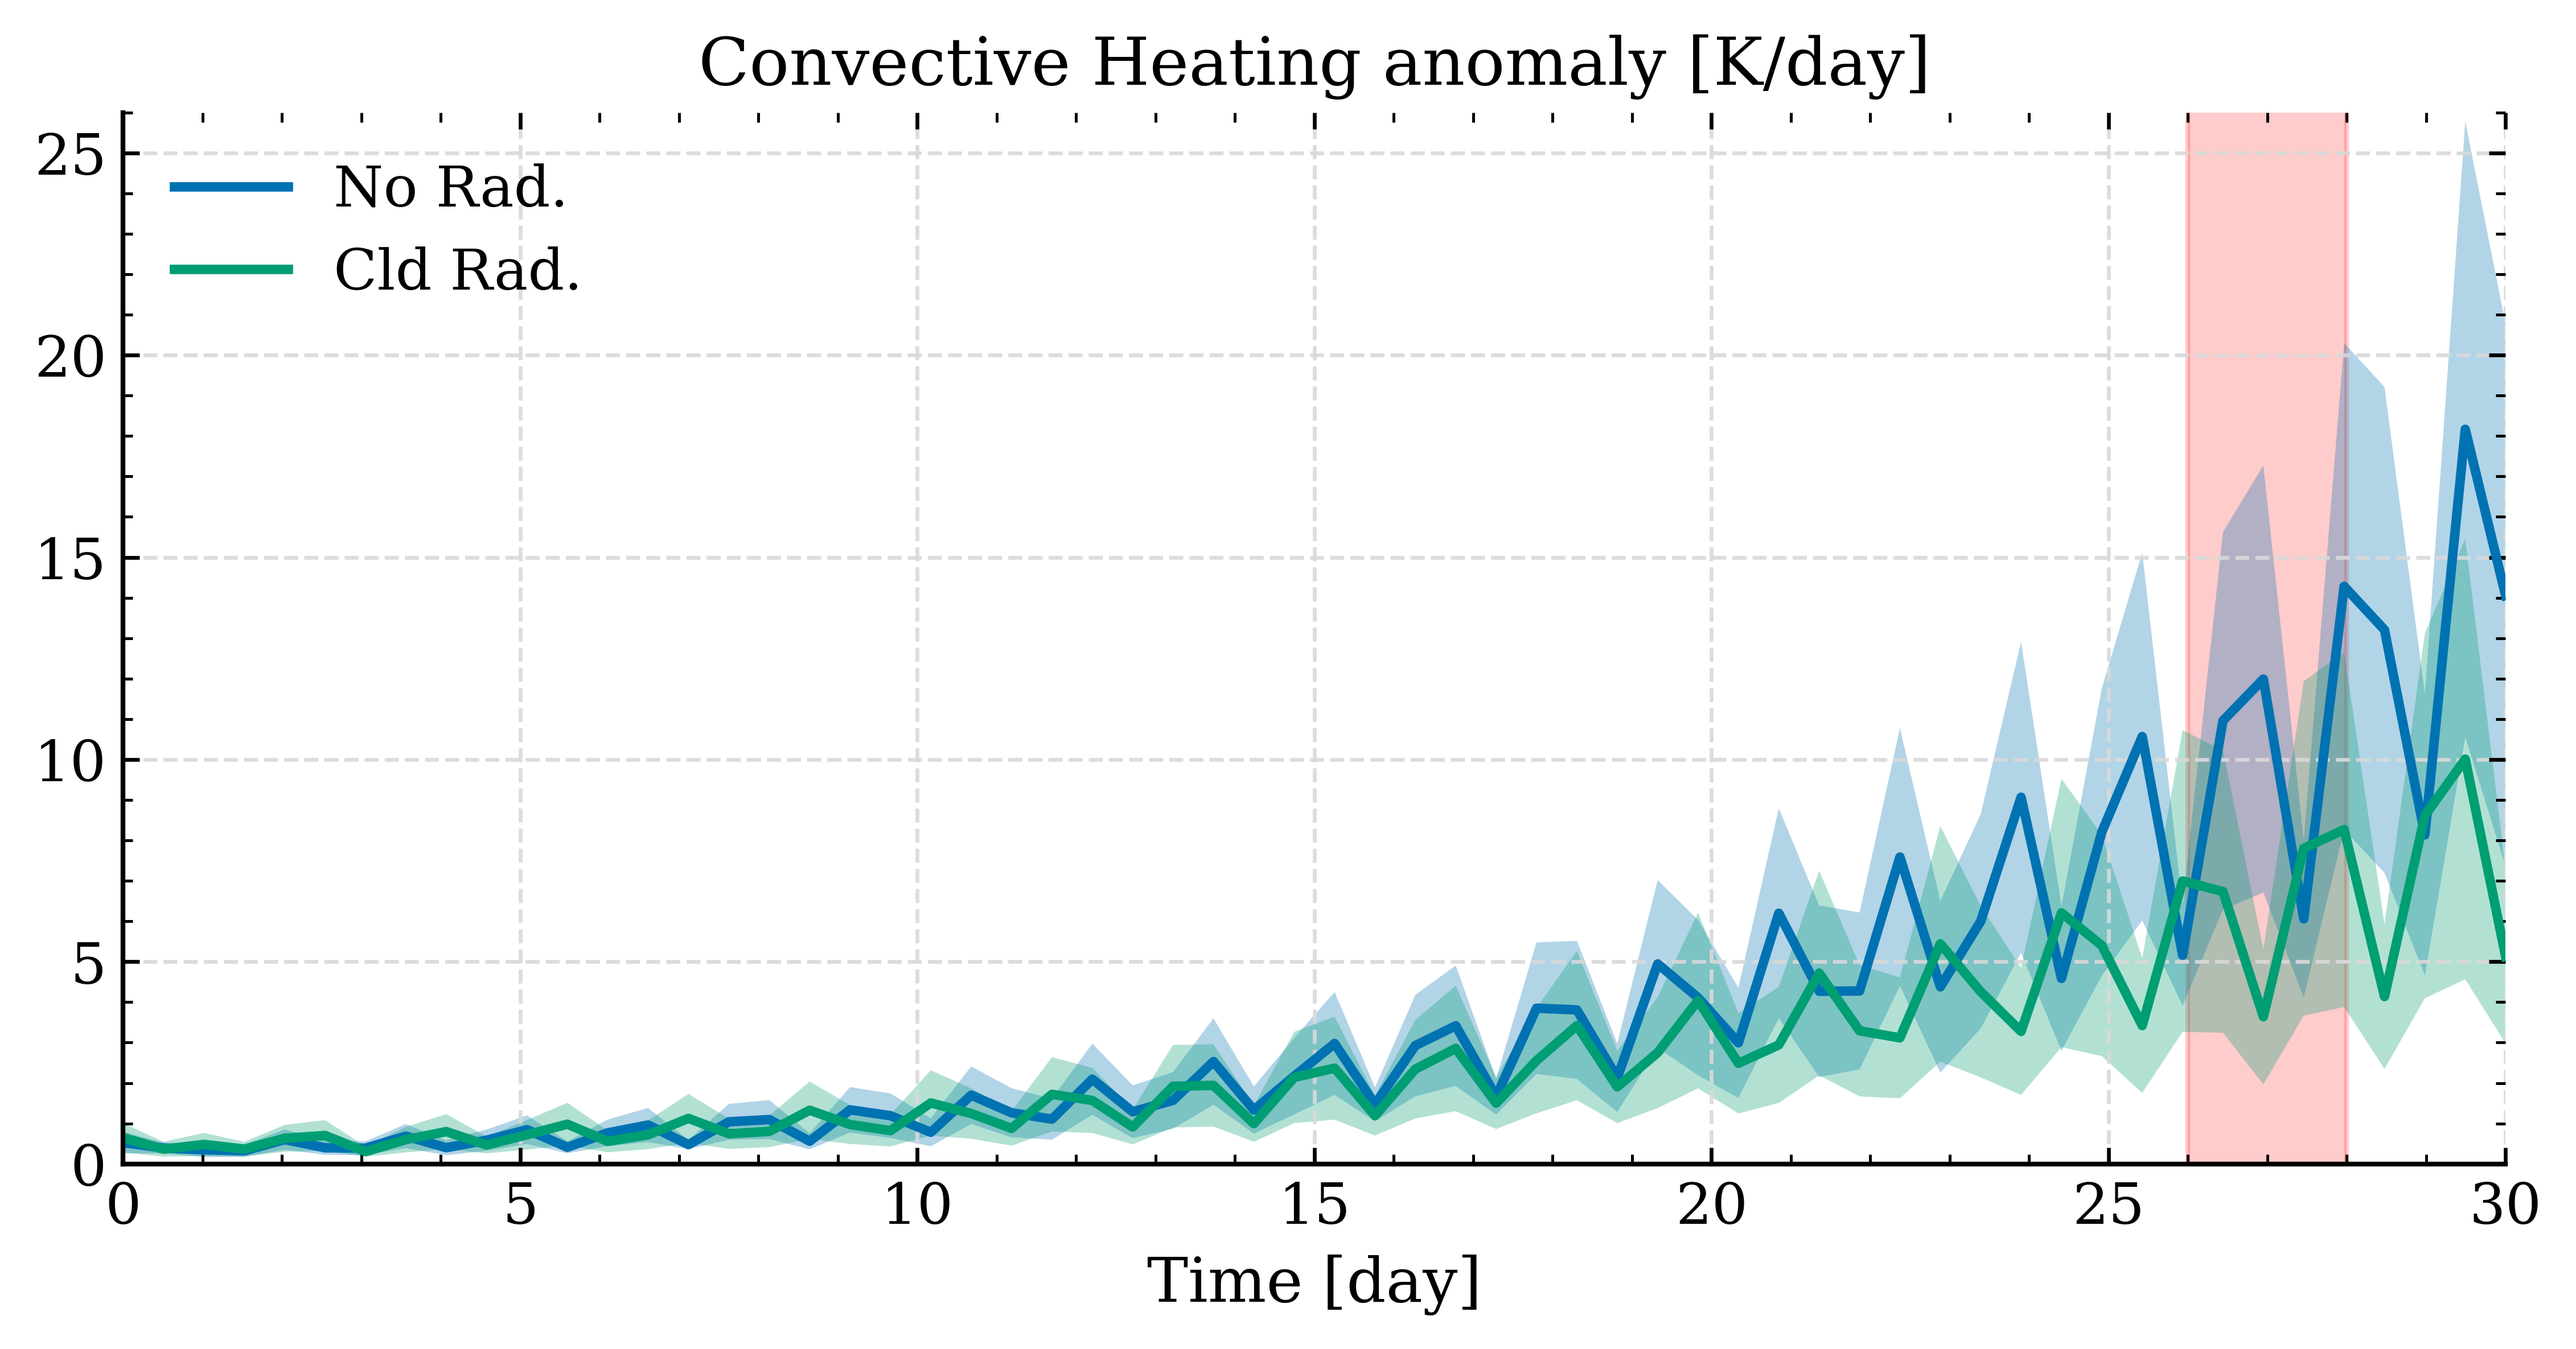
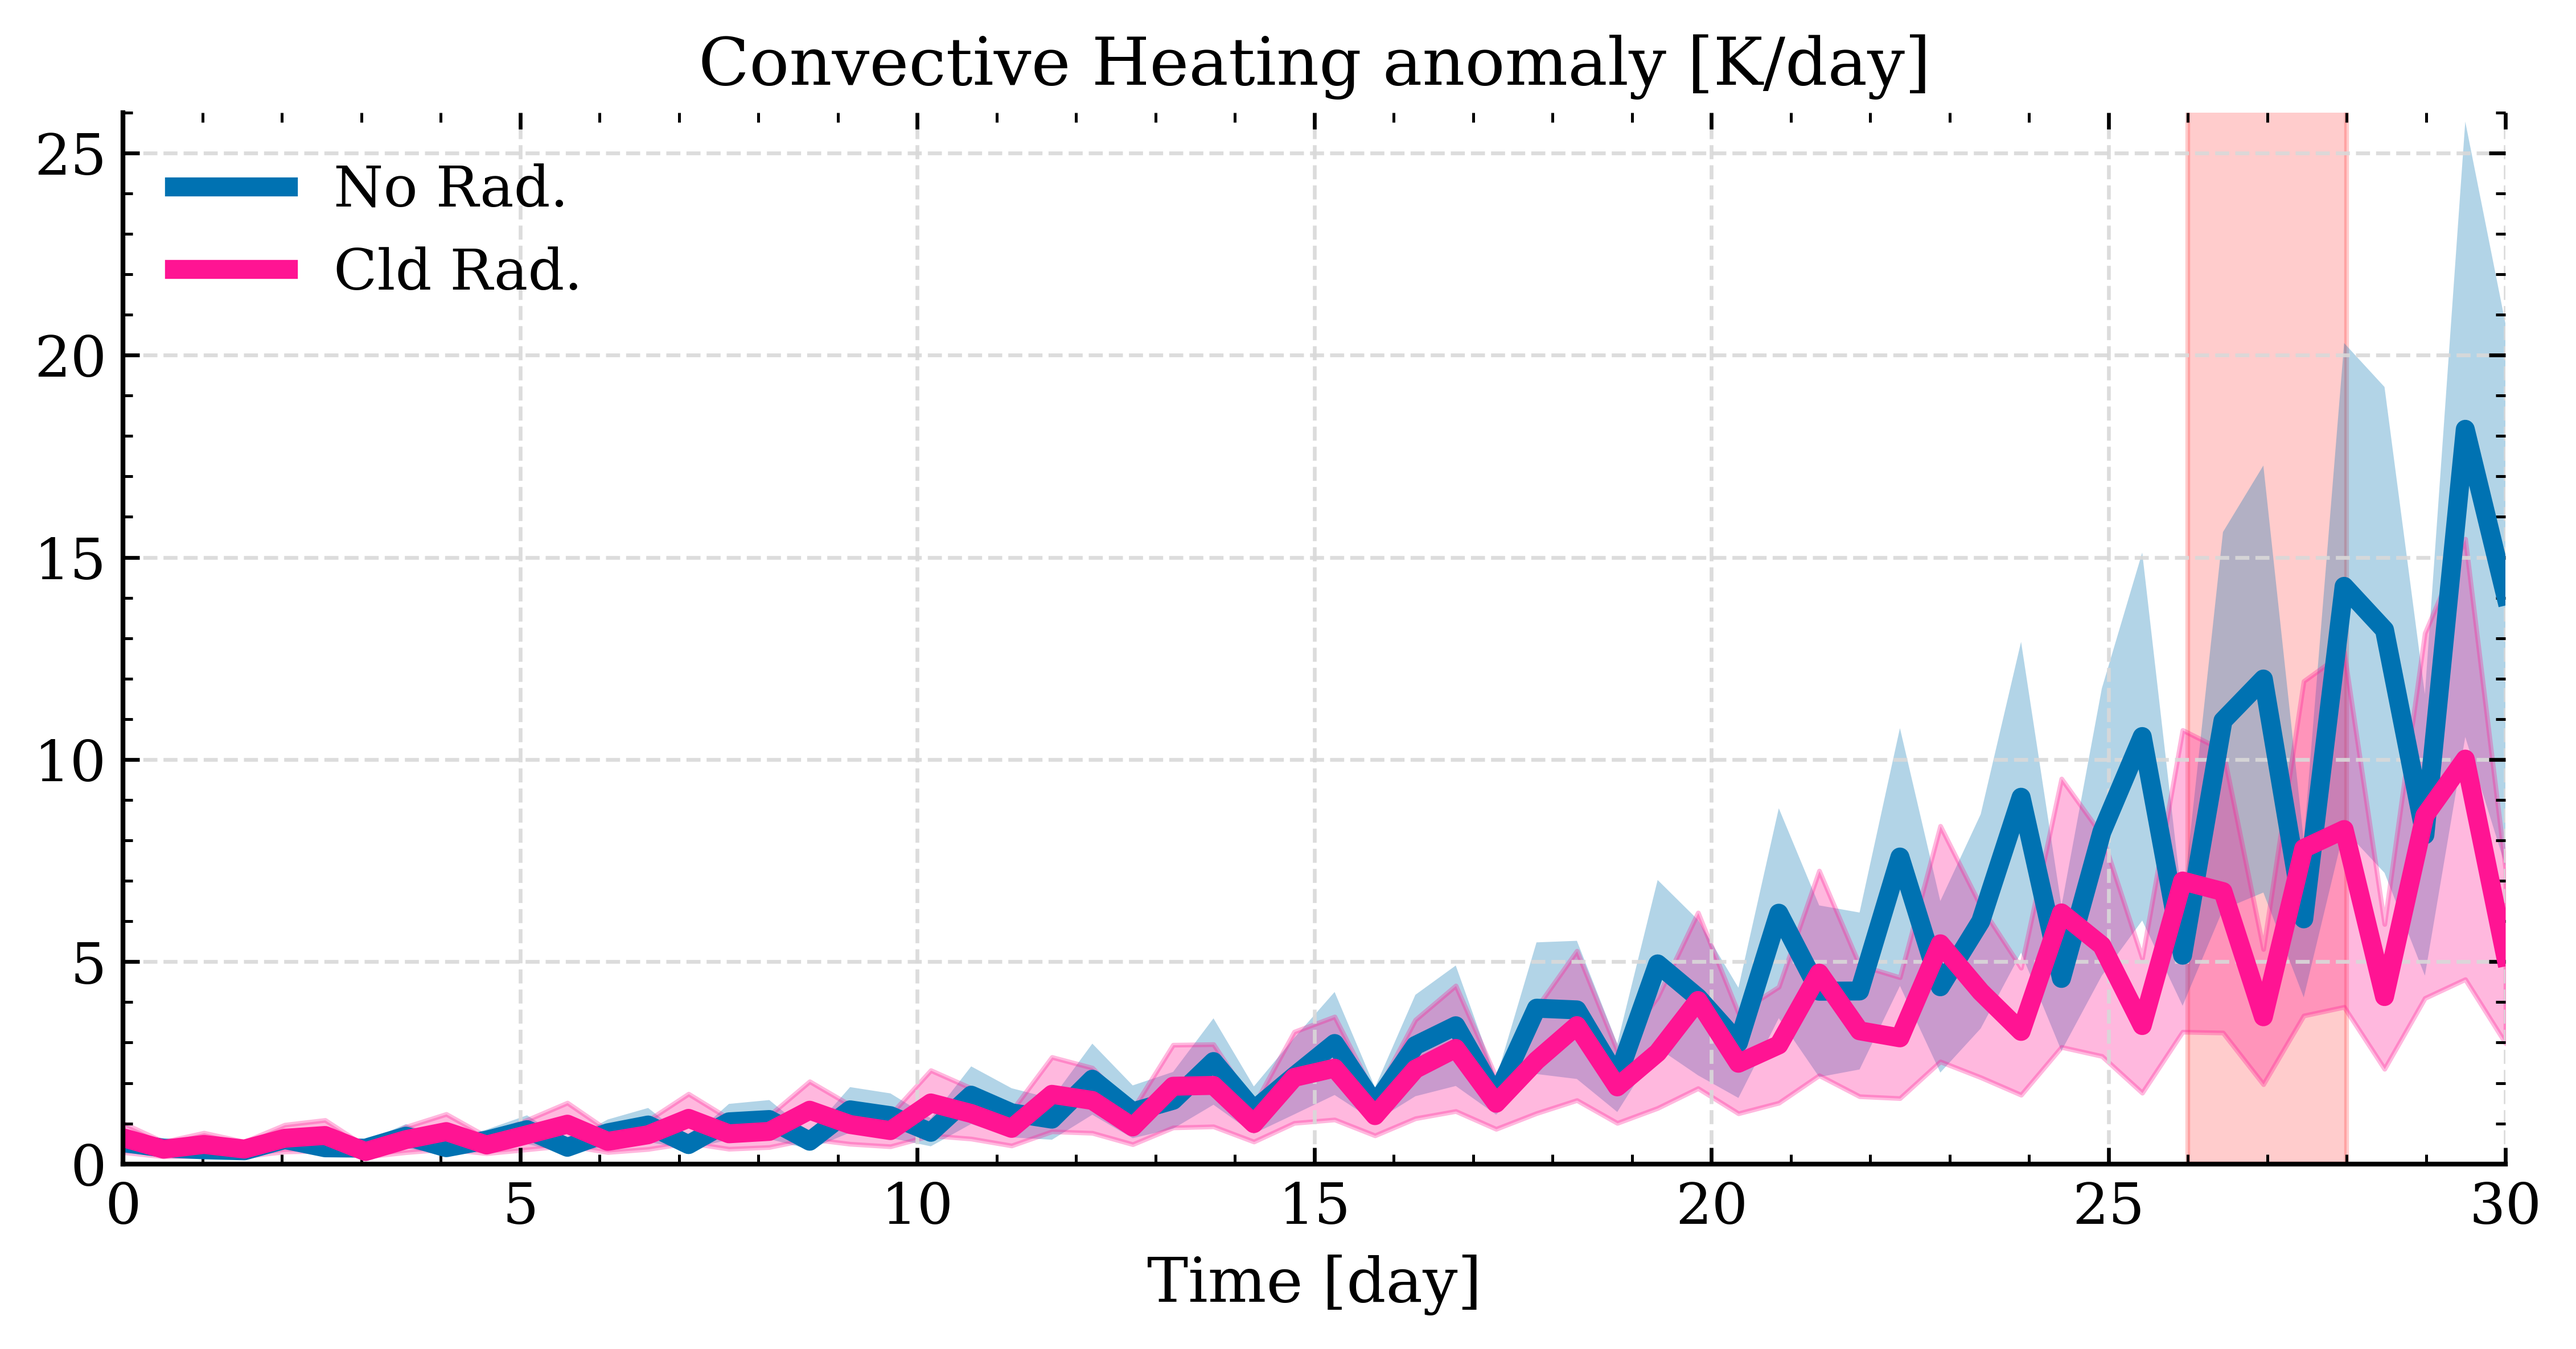
ADD: 20260419 update the evolution of moisture

Changed region(s): [[0.0312, 0.3121, 0.9971, 0.8739], [0.0623, 0.1873, 0.1246, 0.2185], [0.0623, 0.1248, 0.1246, 0.1561]]

diff --git a/Comparison/NoRad_vs_CldRad/QT_Evo.py b/Comparison/NoRad_vs_CldRad/QT_Evo.py
@@ -51,7 +51,7 @@ with h5py.File(NoPath / "GalerkinState.h5", "r") as file:
     NoState: dict[str, np.ndarray] = {
         key: np.real(cast(h5py.Dataset, file[key])[Noidx, ...])
         for key in file.keys()
-        if key.startswith(("T", "J"))
+        if key.startswith(("T", "J", "w"))
     } # shape: (nz, nx, nt, nens)
 
     x: np.ndarray = cast(h5py.Dataset, file["x"])[...]
@@ -61,7 +61,7 @@ with h5py.File(CldPath / "GalerkinState.h5", "r") as file:
     CldState: dict[str, np.ndarray] = {
         key: np.real(cast(h5py.Dataset, file[key])[Cldidx, ...])
         for key in file.keys()
-        if key.startswith(("T", "J"))
+        if key.startswith(("T", "J", "w"))
     } # shape: (nz, nx, nt, nens)
 
 # ====================================================
@@ -71,16 +71,20 @@ with h5py.File(CldPath / "GalerkinState.h5", "r") as file:
 # Combining data
 NoT: np.ndarray = NoState["T1"] + NoState["T2"]
 NoJ: np.ndarray = NoState["J1"] + NoState["J2"]
+Now: np.ndarray = (NoState["w1"] + NoState["w2"]) / 86400.0
 
 CldT: np.ndarray = CldState["T1"] + CldState["T2"]
 CldJ: np.ndarray = CldState["J1"] + CldState["J2"]
+Cldw: np.ndarray = (CldState["w1"] + CldState["w2"]) / 86400.0
 
 # Maximum at different time stamp
 NoT_max: np.ndarray = np.nanmax(NoT, axis=(0, 1))
 NoJ_max: np.ndarray = np.nanmax(NoJ, axis=(0, 1))
+Now_max: np.ndarray = np.nanmax(Now, axis=(0, 1))
 
 CldT_max: np.ndarray = np.nanmax(CldT, axis=(0, 1))
 CldJ_max: np.ndarray = np.nanmax(CldJ, axis=(0, 1))
+Cldw_max: np.ndarray = np.nanmax(Cldw, axis=(0, 1))
 
 # Calculate mean and standard deviation
 NoT_max_mean: np.ndarray = NoT_max.mean(axis=-1)
@@ -95,6 +99,12 @@ NoJ_max_std : np.ndarray = NoJ_max.std(axis=-1)
 CldJ_max_mean: np.ndarray = CldJ_max.mean(axis=-1)
 CldJ_max_std : np.ndarray = CldJ_max.std(axis=-1)
 
+Now_max_mean: np.ndarray = Now_max.mean(axis=-1)
+Now_max_std : np.ndarray = Now_max.std(axis=-1)
+
+Cldw_max_mean: np.ndarray = Cldw_max.mean(axis=-1)
+Cldw_max_std : np.ndarray = Cldw_max.std(axis=-1)
+
 # ====================================================
 # Visualization
 # ====================================================
@@ -102,10 +112,10 @@ Time: np.ndarray = np.linspace(0, NoT_max_mean.size//2, NoT_max_mean.size)
 
 # Temperature
 fig, ax = plt.subplots(1, 1, figsize=(9, 4))
-ax.plot(Time, NoT_max_mean, label="No Rad.")
-ax.plot(Time, CldT_max_mean, label="Cld Rad.")
+ax.plot(Time, NoT_max_mean, label="No Rad.", linewidth=4)
+ax.plot(Time, CldT_max_mean, label="Cld Rad.", color="deeppink", linewidth=4)
 ax.fill_between(Time, NoT_max_mean-NoT_max_std, NoT_max_mean+NoT_max_std, alpha=0.3)
-ax.fill_between(Time, CldT_max_mean-CldT_max_std, CldT_max_mean+CldT_max_std, alpha=0.3)
+ax.fill_between(Time, CldT_max_mean-CldT_max_std, CldT_max_mean+CldT_max_std, alpha=0.3, color="deeppink")
 ax.fill_betweenx([0, 2000], 26, 28, color="red", alpha=0.2, zorder=0)
 ax.spines["right"].set_visible(False)
 ax.spines["top"].set_visible(False)
@@ -122,11 +132,11 @@ plt.close(fig)
 # Convective heating 
 fig, ax = plt.subplots(1, 1, figsize=(9, 4))
 
-ax.plot(Time, NoJ_max_mean, label="No Rad.")
-ax.plot(Time, CldJ_max_mean, label="Cld Rad.")
+ax.plot(Time, NoJ_max_mean, label="No Rad.", linewidth=4)
+ax.plot(Time, CldJ_max_mean, label="Cld Rad.", color="deeppink", linewidth=4)
 
 ax.fill_between(Time, NoJ_max_mean-NoJ_max_std, NoJ_max_mean+NoJ_max_std, alpha=0.3)
-ax.fill_between(Time, CldJ_max_mean-CldJ_max_std, CldJ_max_mean+CldJ_max_std, alpha=0.3)
+ax.fill_between(Time, CldJ_max_mean-CldJ_max_std, CldJ_max_mean+CldJ_max_std, alpha=0.3, color="deeppink")
 ax.fill_betweenx([0, 2000], 26, 28, color="red", alpha=0.2, zorder=0)
 ax.spines["right"].set_visible(False)
 ax.spines["top"].set_visible(False)
@@ -138,4 +148,22 @@ ax.set_title("Convective Heating anomaly [K/day]")
 ax.legend(frameon=False, loc="best")
 
 plt.savefig("/home/b11209013/Kuang2008_v0.3.0_Analysis/Figure/NoRad_vs_CldRad/J_evo.png", dpi=600, bbox_inches="tight")
+plt.close(fig)
+
+fig, ax = plt.subplots(1, 1, figsize=(9, 4))
+ax.plot(Time, Now_max_mean, label="No Rad.", linewidth=4)
+ax.plot(Time, Cldw_max_mean, label="Cld Rad.", color="deeppink", linewidth=4)
+ax.fill_between(Time, Now_max_mean-Now_max_std, Now_max_mean+Now_max_std, alpha=0.3)
+ax.fill_between(Time, Cldw_max_mean-Cldw_max_std, Cldw_max_mean+Cldw_max_std, alpha=0.3, color="deeppink")
+ax.fill_betweenx([0, 2000], 26, 28, color="red", alpha=0.2, zorder=0)
+ax.spines["right"].set_visible(False)
+ax.spines["top"].set_visible(False)
+ax.minorticks_on()
+ax.set_xlim(0, 30)
+ax.set_ylim(0, 0.2)
+ax.set_xlabel("Time [day]")
+ax.set_title("Vertical Motion [m/s]")
+# ax.legend(frameon=False, loc="best")
+
+plt.savefig("/home/b11209013/Kuang2008_v0.3.0_Analysis/Figure/NoRad_vs_CldRad/w_evo.png", dpi=600, bbox_inches="tight")
 plt.close(fig)

diff --git a/Comparison/NoRad_vs_CldRad/q_Evo.py b/Comparison/NoRad_vs_CldRad/q_Evo.py
@@ -1,0 +1,98 @@
+# ====================================================
+# This program is to calculate time evolution of 
+# temperature and convective heating
+# ====================================================
+
+# ====================================================
+# Import package
+# ====================================================
+import h5py
+import numpy as np
+
+from typing import cast
+from pathlib import Path
+
+from matplotlib import pyplot as plt
+from matplotlib.colors import TwoSlopeNorm
+
+# using style sheet
+style_path = Path("/home/b11209013/Kuang2008_v0.3.0_Analysis/style_sheet/SingleLine.mplstyle")
+plt.style.use(["seaborn-v0_8-colorblind", str(style_path)])
+
+# ====================================================
+# Load data
+# ====================================================
+
+# Setup path for field data
+HomePath: Path = Path("/home/b11209013/Kuang2008_v0.3.0/Config")
+NoPath: Path = Path("/work/b11209013/Kuang2008_v0.3.0/full/Rad(0.0,0.0,0.0)/2026-04-16_RUN05")
+CldPath: Path = Path("/work/b11209013/Kuang2008_v0.3.0/full/Rad(0.0,0.0,0.1)/2026-04-16_RUN05")
+FigPath : Path = Path("/home/b11209013/Kuang2008_v0.3.0_Analysis/Figure/NoRad_vs_CldRad")
+
+# Load growth rate data for identifying most-unstable mode
+## Load growth rate
+with h5py.File(NoPath / "EigenAnalysis.h5", "r") as file:
+    No_GR: np.ndarray = cast(h5py.Dataset, file["GrowthRates"])[:, 0]
+    No_PS: np.ndarray = cast(h5py.Dataset, file["PhaseSpeeds"])[:, 0]
+    k          : np.ndarray = cast(h5py.Dataset, file["k"])[...]
+
+with h5py.File(CldPath / "EigenAnalysis.h5", "r") as file:
+    Cld_GR: np.ndarray = cast(h5py.Dataset, file["GrowthRates"])[:, 0]
+    Cld_PS: np.ndarray = cast(h5py.Dataset, file["PhaseSpeeds"])[:, 0]
+
+## identifying most unstable mode
+Noidx       : int = np.argmax(No_GR).astype(int)
+Cldidx      : int = np.argmax(Cld_GR).astype(int)
+Nok         : float = k[Noidx]
+Cldk        : float = k[Cldidx]
+
+# Load Galerkin data
+with h5py.File(NoPath / "State.h5", "r") as file:
+    NoState: dict[str, np.ndarray] = {
+        key: np.abs(cast(h5py.Dataset, file[key])[Noidx, ...])
+        for key in file.keys()
+        if key.startswith(("q"))
+    }
+
+with h5py.File(CldPath / "State.h5", "r") as file:
+    CldState: dict[str, np.ndarray] = {
+        key: np.abs(cast(h5py.Dataset, file[key])[Cldidx, ...])
+        for key in file.keys()
+        if key.startswith(("q"))
+    }
+# ====================================================
+# Preprocessing 
+# ====================================================
+
+# Maximum at different time stamp
+
+# Calculate mean and standard deviation
+Noq_max_mean: np.ndarray = NoState["q"].mean(axis=-1)
+Noq_max_std : np.ndarray = NoState["q"].std(axis=-1)
+
+Cldq_max_mean: np.ndarray = CldState["q"].mean(axis=-1)
+Cldq_max_std : np.ndarray = CldState["q"].std(axis=-1)
+
+# ====================================================
+# Visualization
+# ====================================================
+Time: np.ndarray = np.linspace(0, Noq_max_mean.size//2, Noq_max_mean.size)
+
+# Temperature
+fig, ax = plt.subplots(1, 1, figsize=(9, 4))
+ax.plot(Time, Noq_max_mean, label="No Rad.", linewidth=4)
+ax.plot(Time, Cldq_max_mean, label="Cld Rad.", color="deeppink", linewidth=4)
+ax.fill_between(Time, Noq_max_mean-Noq_max_std, Noq_max_mean+Noq_max_std, alpha=0.3)
+ax.fill_between(Time, Cldq_max_mean-Cldq_max_std, Cldq_max_mean+Cldq_max_std, alpha=0.3, color="deeppink")
+# ax.fill_betweenx([0, 2000], 26, 28, color="red", alpha=0.2, zorder=0)
+ax.spines["right"].set_visible(False)
+ax.spines["top"].set_visible(False)
+ax.minorticks_on()
+ax.set_xlim(0, 30)
+# ax.set_ylim(0, 10)
+ax.set_xlabel("Time [day]")
+ax.set_title("Moisture anomaly [K]")
+# ax.legend(frameon=False, loc="best")
+
+plt.savefig("/home/b11209013/Kuang2008_v0.3.0_Analysis/Figure/NoRad_vs_CldRad/q_evo.png", dpi=600, bbox_inches="tight")
+plt.close(fig)

diff --git a/Comparison/NoRad_vs_CldRad/QwT_phase.py b/Comparison/NoRad_vs_CldRad/QwT_phase.py
@@ -164,11 +164,11 @@ z = np.linspace(0, 14000, nz)[1:]
 fig, ax = plt.subplots(1, 1, figsize=(5, 9), sharey=True)
 
 # Plot w-T phase lag
-ax.plot(No_wT_mean[1:], z, label="NoRad", color="C0", lw=2)
+ax.plot(No_wT_mean[1:], z, label="NoRad", color="C0", lw=4)
 ax.fill_betweenx(z, No_wT_mean[1:] - No_wT_std[1:], No_wT_mean[1:] + No_wT_std[1:], color="C0", alpha=0.2)
 
-ax.plot(Cld_wT_mean[1:], z, label="CldRad", color="C1", lw=2)
-ax.fill_betweenx(z, Cld_wT_mean[1:] - Cld_wT_std[1:], Cld_wT_mean[1:] + Cld_wT_std[1:], color="C1", alpha=0.2)
+ax.plot(Cld_wT_mean[1:], z, label="CldRad", color="deeppink", lw=4)
+ax.fill_betweenx(z, Cld_wT_mean[1:] - Cld_wT_std[1:], Cld_wT_mean[1:] + Cld_wT_std[1:], color="deeppink", alpha=0.2)
 
 ax.axvline(0, color="k", linestyle="--", alpha=0.5)
 ax.set_xticks(np.linspace(-np.pi, np.pi, 5), [r"-$\pi$", r"-$\pi$/2", "0", r"$\pi$/2", r"$\pi$"])
@@ -184,11 +184,11 @@ plt.close(fig)
 # Plot J-T (QT) phase lag
 fig, ax = plt.subplots(1, 1, figsize=(5, 9), sharey=True)
 
-ax.plot(No_QT_mean[1:], z, label="NoRad", color="C0", lw=2)
+ax.plot(No_QT_mean[1:], z, label="NoRad", color="C0", lw=4)
 ax.fill_betweenx(z, No_QT_mean[1:] - No_QT_std[1:], No_QT_mean[1:] + No_QT_std[1:], color="C0", alpha=0.2)
 
-ax.plot(Cld_QT_mean[1:], z, label="CldRad", color="C1", lw=2)
-ax.fill_betweenx(z, Cld_QT_mean[1:] - Cld_QT_std[1:], Cld_QT_mean[1:] + Cld_QT_std[1:], color="C1", alpha=0.2)
+ax.plot(Cld_QT_mean[1:], z, label="CldRad", color="deeppink", lw=4)
+ax.fill_betweenx(z, Cld_QT_mean[1:] - Cld_QT_std[1:], Cld_QT_mean[1:] + Cld_QT_std[1:], color="deeppink", alpha=0.2)
 
 ax.axvline(0, color="k", linestyle="--", alpha=0.5)
 ax.set_xticks(np.linspace(-np.pi, np.pi, 5), [r"-$\pi$", r"-$\pi$/2", "0", r"$\pi$/2", r"$\pi$"])

diff --git a/Comparison/NoRad_vs_CldRad/EAPE_Evo.py b/Comparison/NoRad_vs_CldRad/EAPE_Evo.py
@@ -109,10 +109,10 @@ Time: np.ndarray = np.linspace(0, NoGen_max_mean.size//2, NoGen_max_mean.size)
 
 # Temperature
 fig, ax = plt.subplots(1, 1, figsize=(9, 4))
-ax.plot(Time, NoGen_max_mean, label="No Rad.")
-ax.plot(Time, CldGen_max_mean, label="Cld Rad.")
+ax.plot(Time, NoGen_max_mean, label="No Rad.", linewidth=4)
+ax.plot(Time, CldGen_max_mean, label="Cld Rad.", color="deeppink", linewidth=4)
 ax.fill_between(Time, NoGen_max_mean-NoGen_max_std, NoGen_max_mean+NoGen_max_std, alpha=0.3)
-ax.fill_between(Time, CldGen_max_mean-CldGen_max_std, CldGen_max_mean+CldGen_max_std, alpha=0.3)
+ax.fill_between(Time, CldGen_max_mean-CldGen_max_std, CldGen_max_mean+CldGen_max_std, alpha=0.3, color="deeppink")
 ax.fill_betweenx([0, 2000], 26, 28, color="red", alpha=0.2, zorder=0)
 ax.spines["right"].set_visible(False)
 ax.spines["top"].set_visible(False)
